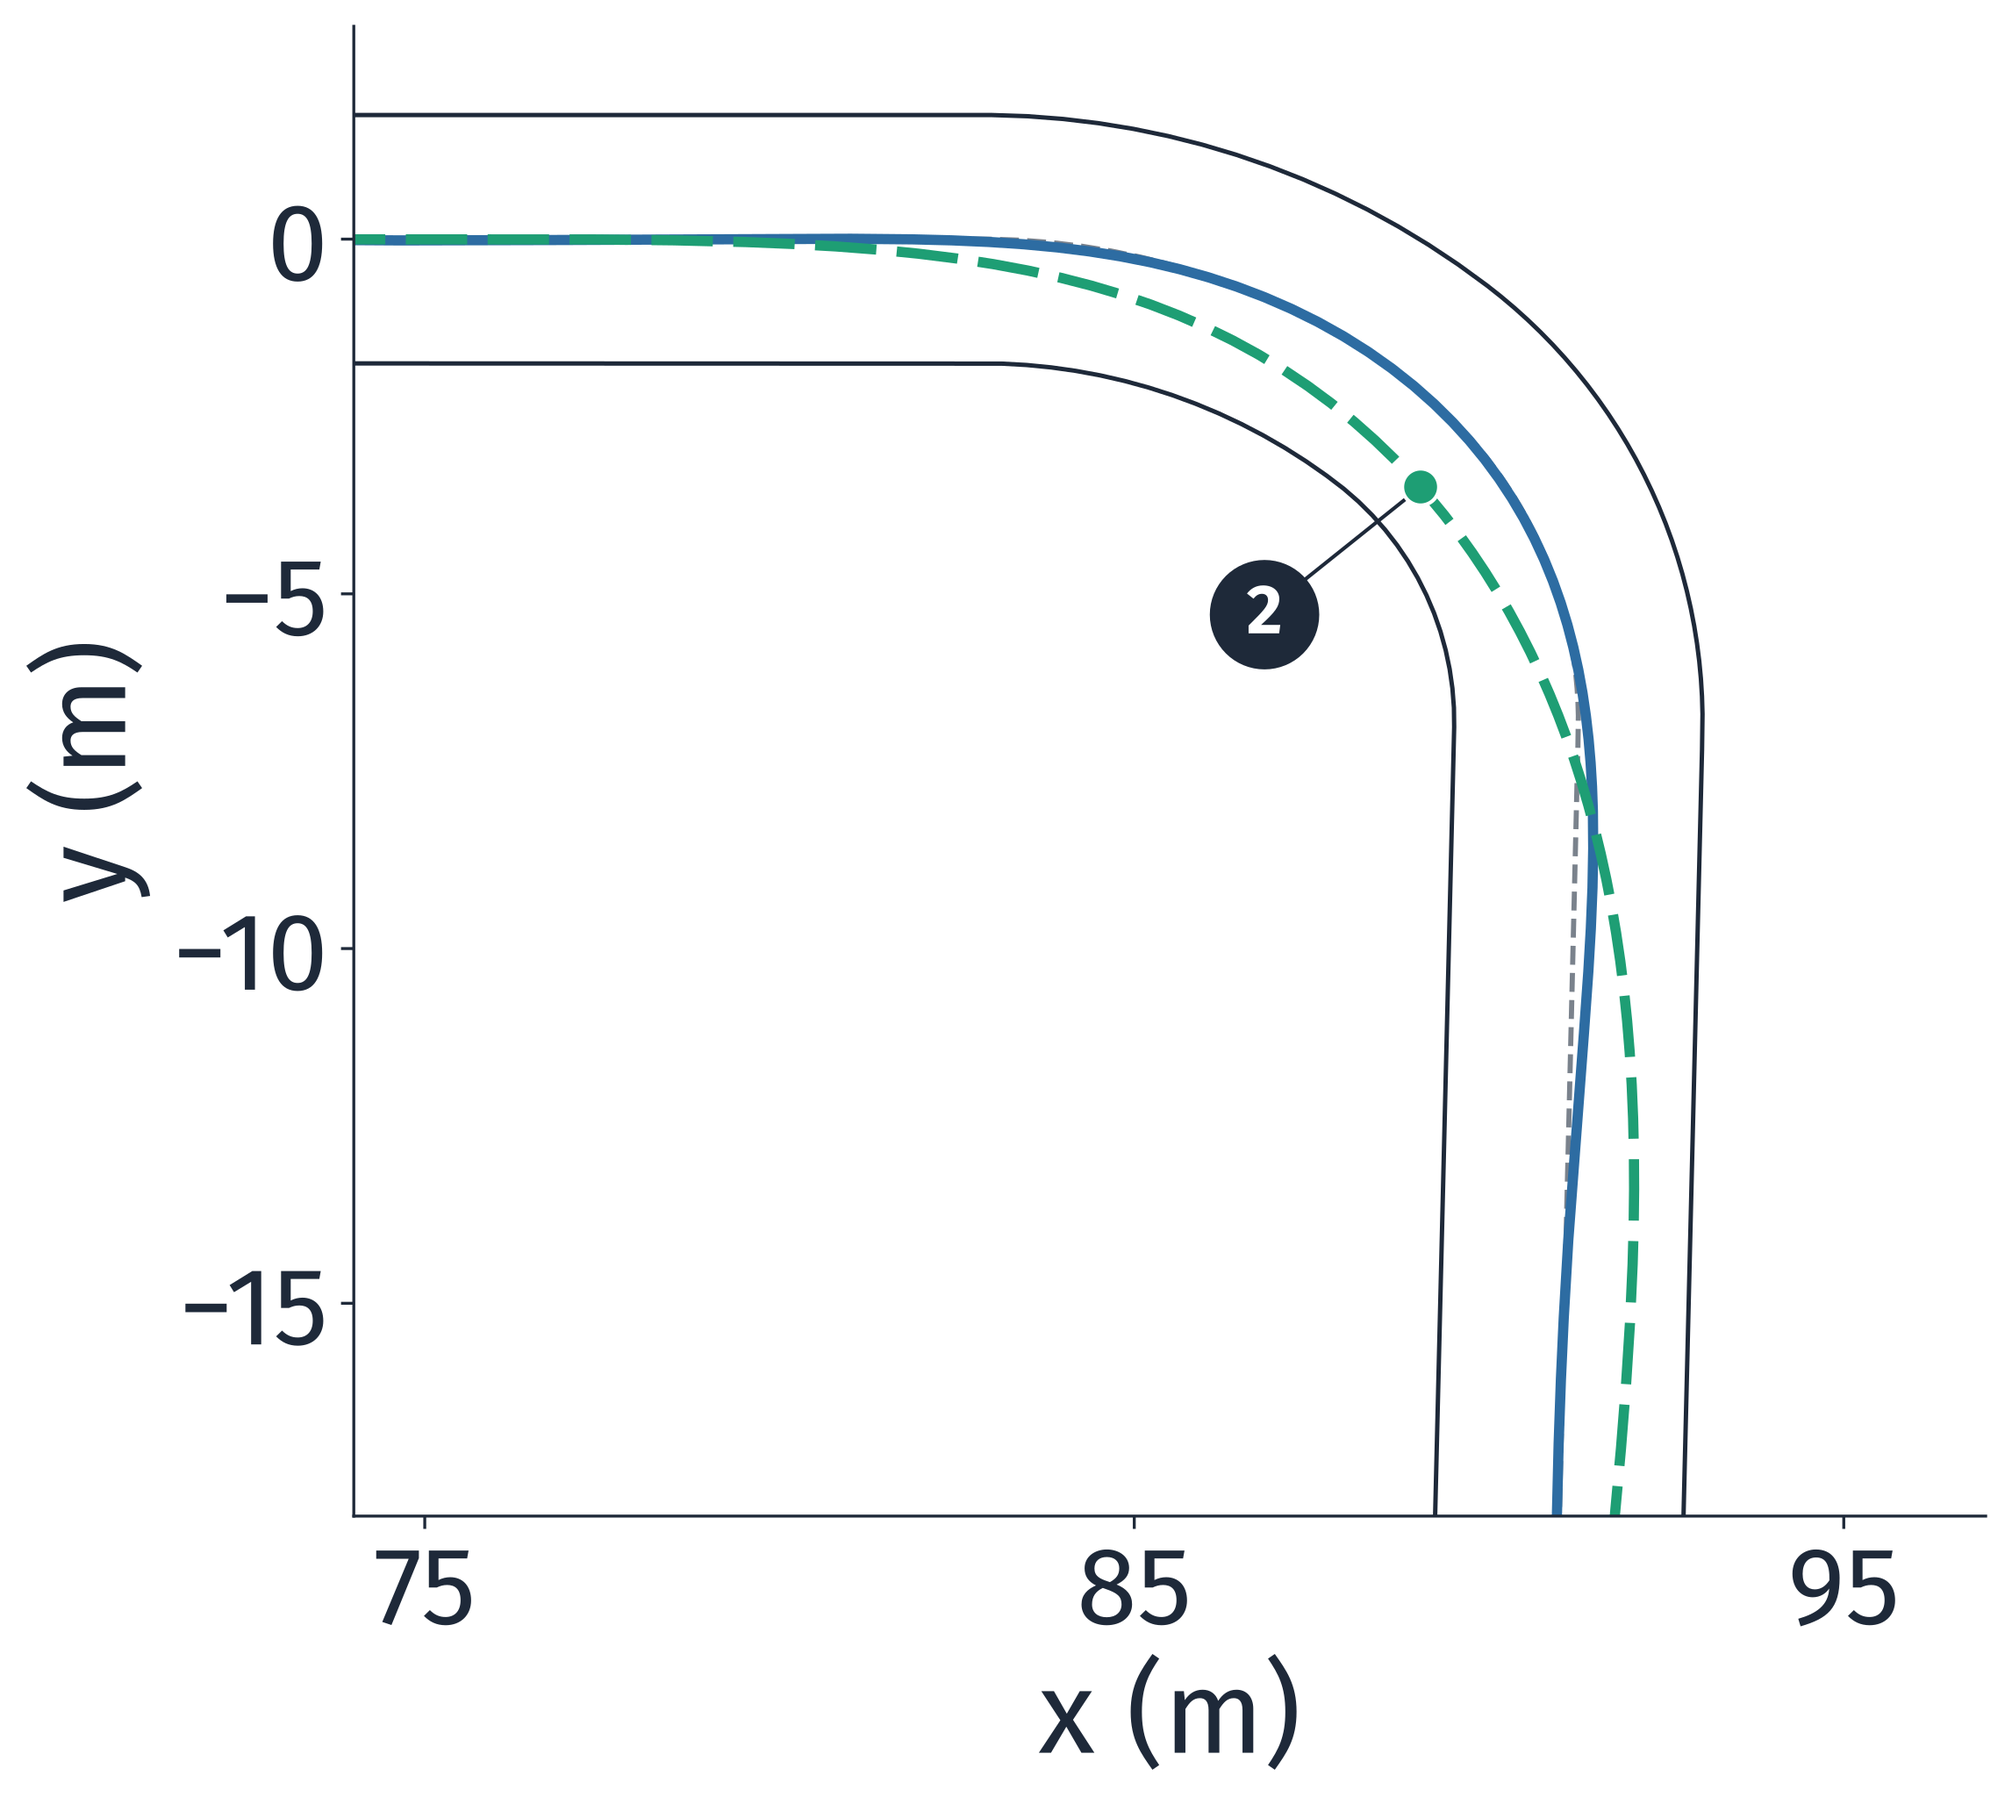
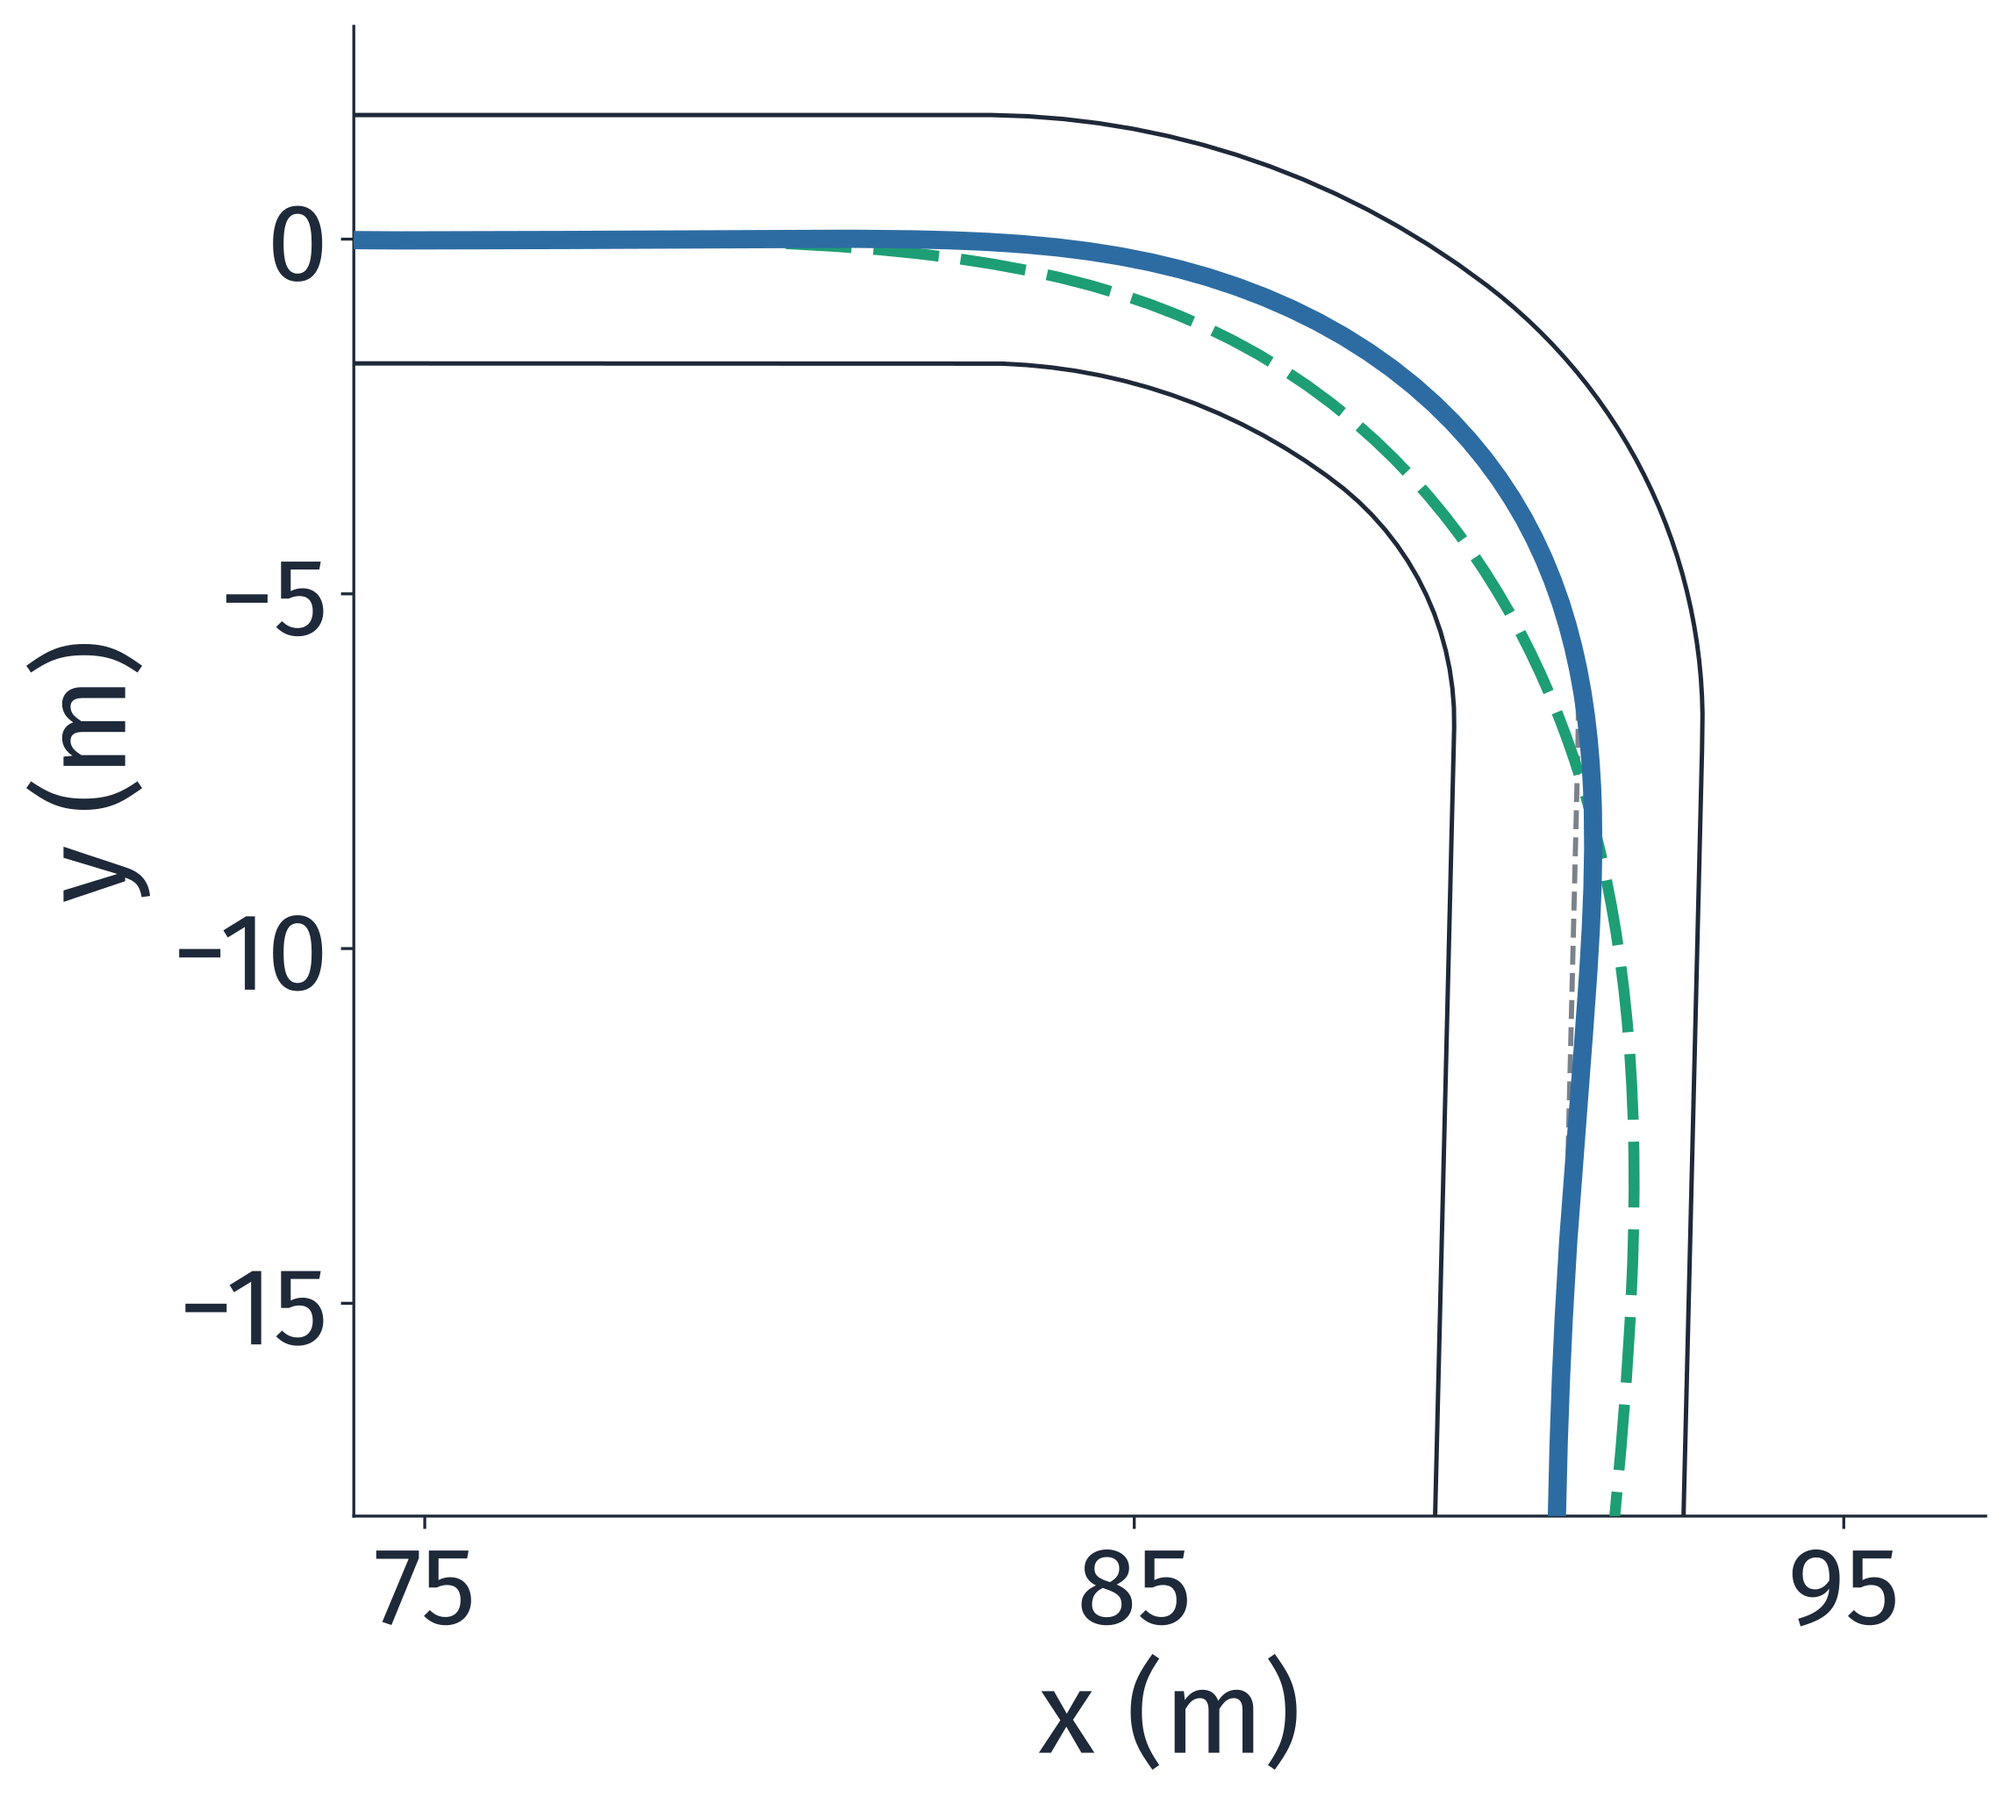
L10: three lookaheads on the road: no tags, "curve", a thicker blue run

diff --git a/docs/source/lectures/lecture10/l10_lecture.rst b/docs/source/lectures/lecture10/l10_lecture.rst
@@ -4004,26 +4004,27 @@ Drive Three Lookaheads on Our Turn: 3, 5 and 10 m
 ^^^^^^^^^^^^^^^^^^^^^^^^^^^^^^^^^^^^^^^^^^^^^^^^^
 
 Three runs of Pure Pursuit on our turn, each with a different lookahead
-:math:`L_d`: red, :math:`L_d` = 3 m; blue, 5 m; green dashed, 10 m. Each
-starts 1 m left of the lane's center (chosen), so the straight shows how the
-AV steers back, and the corner how it turns.
+:math:`L_d`: :math:`L_d` = 3 m (red); 5 m (blue); 10 m (green). Each starts
+1 m left of the lane's center (chosen), so the straight shows how the AV
+steers back, and the curve how it turns.
 
 .. figure:: /_static/images/L10/pp_road_straight.png
-   :alt: A long top view of the straight approach, to scale, x from 0 to 45 meters and y in meters: the lane between two black lines 1.75 meters either side of a gray dashed center line. A faint gray AV at the left, 1 meter left of the center. Three paths leave it. A red one swings across the center and back in waves that grow until they cross the lane's edges. A blue one swings once just past the center, marked by a blue dot with dark tag 1, then settles on the center. A green dashed one comes down to the center slowly with no visible swing.
+   :alt: A long top view of the straight approach, to scale, x from 0 to 45 meters and y in meters: the lane between two black lines 1.75 meters either side of a gray dashed center line. A faint gray AV at the left, 1 meter left of the center. Three paths leave it. A red one swings across the center and back in waves that grow until they cross the lane's edges. A blue one swings once just past the center, then settles on the center. A green dashed one comes down to the center slowly with no visible swing.
    :width: 100%
    :align: center
 
 .. figure:: /_static/images/L10/pp_road_corner.png
-   :alt: A top view of the right turn, to scale, x from 74 to 97 meters and y from minus 18 to 3 meters, the lane between two black edges and its center dashed gray. A blue path follows the center closely through the turn. A green dashed path turns early, cutting toward the inner edge, marked by a green dot with dark tag 2, then swings out past the center after the corner.
+   :alt: A top view of the right turn, to scale, x from 74 to 97 meters and y from minus 18 to 3 meters, the lane between two black edges and its center dashed gray. A thick blue path follows the center closely through the curve. A green dashed path turns early, cutting toward the inner edge, then swings out past the center after the curve.
    :width: 45%
    :align: center
 
-- **3 m:** the AV steers back so hard that it overshoots, and each swing is
-  wider: it leaves the 3.5 m lane (3.07 m off). Not drawn in the corner.
-- **5 m:** tag 1, one swing past the center, 0.32 m, then it settles; in the
-  corner, at most 0.25 m off.
-- **10 m:** it comes back slowly, 0.07 m past the center; in the corner it
-  turns early and, tag 2, cuts 0.98 m inside.
+- **3 m (red):** the AV steers back so hard that it overshoots, and each
+  swing is wider: it leaves the 3.5 m lane (3.07 m off). Not drawn on the
+  curve.
+- **5 m (blue):** one swing past the center, 0.32 m, then it settles; on
+  the curve, at most 0.25 m off.
+- **10 m (green):** it comes back slowly, 0.07 m past the center; on the
+  curve it turns early and cuts 0.98 m inside.
 
 
 .. _l10-lec-ld-tradeoff:
